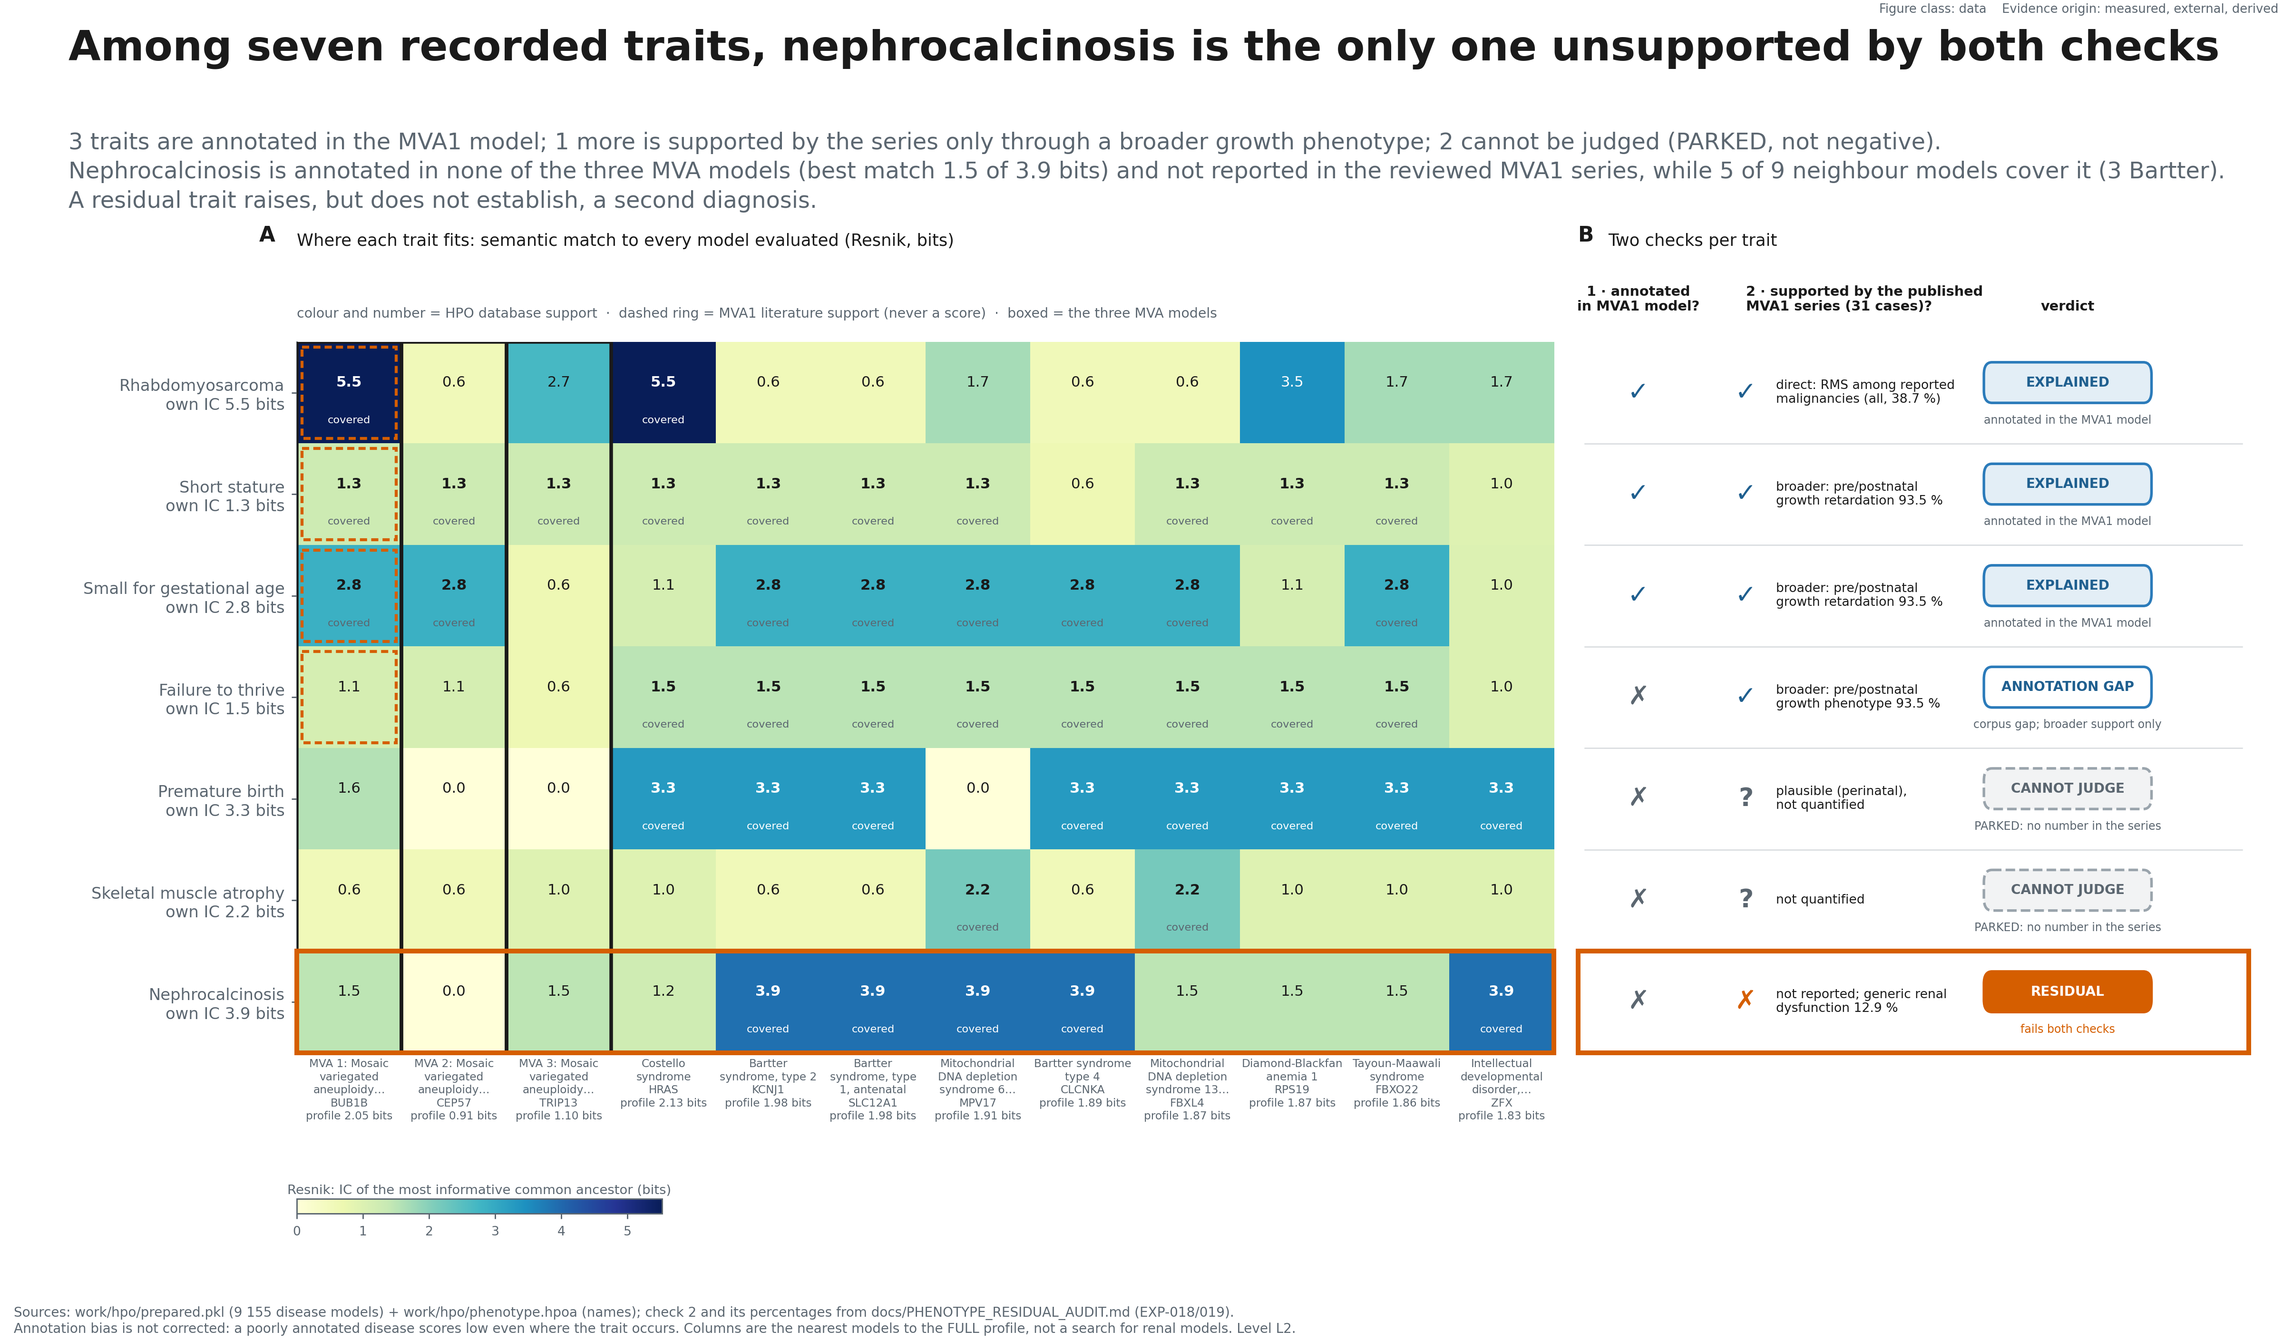
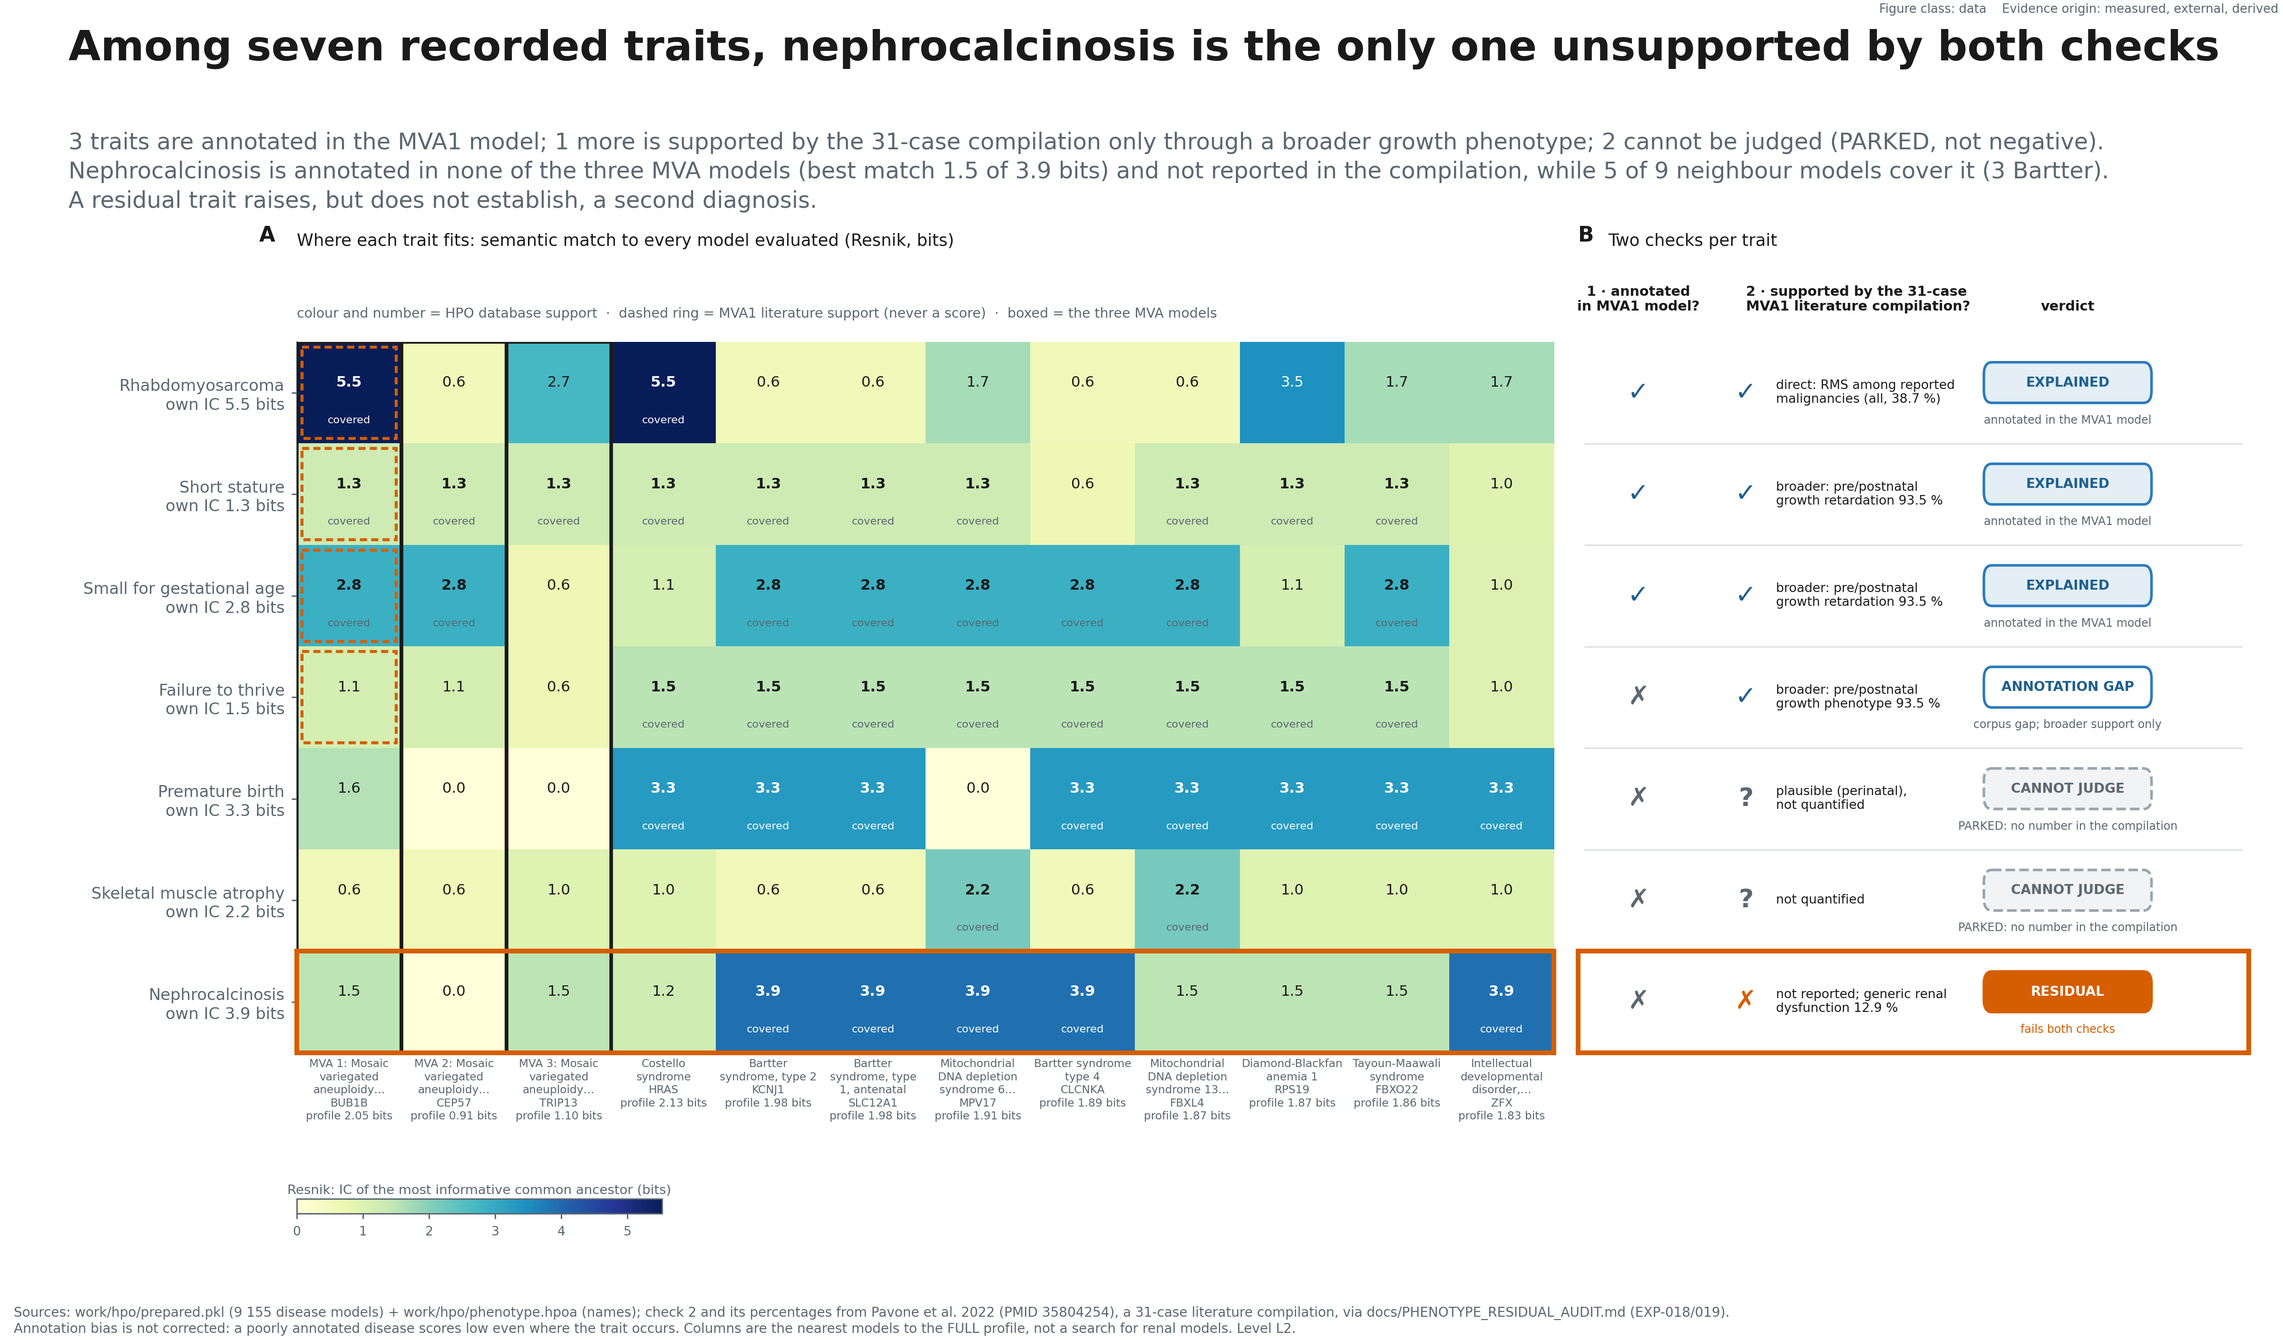
cierre de narrativa: Pavone 2022 (PMID 35804254) como compilacion publicada de 31 casos MVA1, no 'serie' (revision de literatura; caso indice con una sola VUS heterocigota), en fig05, Track 1, README, atlas y audit; audit: 'RESIDUAL CONFIRMADO' -> 'residual en este audit, ambas comprobaciones negati

diff --git a/src/figures/fig05_hpo.py b/src/figures/fig05_hpo.py
@@ -3,7 +3,7 @@
 """Figure 6. Seven traits, two checks: only nephrocalcinosis fails both.
 
 A · matriz término HPO × modelo, en bits (dato medido). B · registro alineado fila a fila: comprobación 1
-(anotado en el modelo MVA1, medido), comprobación 2 (serie publicada, del audit) y el veredicto que
+(anotado en el modelo MVA1, medido), comprobación 2 (compilación publicada de 31 casos, del audit) y el veredicto que
 DERIVA de ambas. Sustituye a las barras de BMA, que ahora van en la etiqueta de cada columna.
 
 What the cells hold
@@ -20,7 +20,7 @@ Why not a simple annotated / not annotated flag
 
 Two kinds of support, kept separate
     Colour = HPO database support, in bits.
-    Ring   = literature support for MVA1 specifically, from the published series.
+    Ring   = literature support for MVA1 specifically, from the 31-case literature compilation.
     Literature is never converted into a Resnik score. Mixing the two is exactly
     how a phenotype gap gets talked away.
 
@@ -79,7 +79,7 @@ def verdicts(m: dict) -> list:
     """Veredicto por rasgo, DERIVADO de las dos comprobaciones; nada colocado a mano.
 
     Comprobación 1 (medida): ¿el término está anotado en el modelo MVA1 del corpus HPO?
-    Comprobación 2 (literatura): ¿la serie publicada de MVA1 lo respalda? (LIT_MVA1_DETAIL,
+    Comprobación 2 (literatura): ¿la compilación publicada de 31 casos MVA1 lo respalda? (LIT_MVA1_DETAIL,
     tal como está en docs/PHENOTYPE_RESIDUAL_AUDIT.md). Las categorías son las del audit.
     """
     PT, COV = m["terms"], m["covered"]
@@ -108,7 +108,7 @@ VSTYLE = {  # relleno, borde, tinta, trama; la identidad va además escrita en l
 VNOTE = {
     "EXPLAINED": "annotated in the MVA1 model",
     "ANNOTATION GAP": "corpus gap; broader support only",
-    "CANNOT JUDGE": "PARKED: no number in the series",
+    "CANNOT JUDGE": "PARKED: no number in the compilation",
     "RESIDUAL": "fails both checks",
 }
 
@@ -185,7 +185,7 @@ def build(m: dict):
     X1, X2, XV = .9, 3.05, 7.3
     al.text(X1, -0.78, "1 · annotated\nin MVA1 model?", ha="center", va="bottom",
             fontsize=S.BASE - 1.1, color=S.INK, fontweight="bold", linespacing=1.15)
-    al.text(X2 - .55, -0.78, "2 · supported by the published\nMVA1 series (31 cases)?",
+    al.text(X2 - .55, -0.78, "2 · supported by the 31-case\nMVA1 literature compilation?",
             ha="left", va="bottom", fontsize=S.BASE - 1.1, color=S.INK, fontweight="bold",
             linespacing=1.15)
     al.text(XV, -0.78, "verdict", ha="center", va="bottom", fontsize=S.BASE - 1.1,
@@ -230,16 +230,16 @@ def build(m: dict):
     fig.text(.03, .955, "Among seven recorded traits, nephrocalcinosis is the only one unsupported by both checks",
              fontsize=21, fontweight="bold", color=S.INK)
     fig.text(.03, .845,
-             f"{cnt['EXPLAINED']} traits are annotated in the MVA1 model; {cnt['ANNOTATION GAP']} more is supported by the series only "
+             f"{cnt['EXPLAINED']} traits are annotated in the MVA1 model; {cnt['ANNOTATION GAP']} more is supported by the 31-case compilation only "
              f"through a broader growth phenotype; {cnt['CANNOT JUDGE']} cannot be judged (PARKED, not negative)." + NL2 +
              f"Nephrocalcinosis is annotated in none of the three MVA models (best match "
-             f"{BM[i_nef, mv[0]]:.1f} of {ic_t[PT[i_nef]]:.1f} bits) and not reported in the reviewed MVA1 series, while "
+             f"{BM[i_nef, mv[0]]:.1f} of {ic_t[PT[i_nef]]:.1f} bits) and not reported in the compilation, while "
              f"{len(nef_other)} of {len(ot)} neighbour models cover it ({n_bartter} Bartter)." + NL2 +
              "A residual trait raises, but does not establish, a second diagnosis.",
              fontsize=11.5, color=S.MUTED, linespacing=1.4)
     S.note(fig,
            "Sources: work/hpo/prepared.pkl (9 155 disease models) + work/hpo/phenotype.hpoa (names); "
-           "check 2 and its percentages from docs/PHENOTYPE_RESIDUAL_AUDIT.md (EXP-018/019).\n"
+           "check 2 and its percentages from Pavone et al. 2022 (PMID 35804254), a 31-case literature compilation, via docs/PHENOTYPE_RESIDUAL_AUDIT.md (EXP-018/019).\n"
            "Annotation bias is not corrected: a poorly annotated disease scores low even where the "
            "trait occurs. Columns are the nearest models to the FULL profile, not a search for renal "
            "models. Level L2.",
@@ -313,13 +313,13 @@ PROBAND = [
     ("HP:0003202", "Skeletal muscle atrophy"),
     ("HP:0000121", "Nephrocalcinosis"),
 ]
-# Literature support in the published MVA1 series, as already recorded in the
+# Literature support in the 31-case MVA1 literature compilation, as already recorded in the
 # project. Kept as a BOOLEAN: it is never turned into bits.
 LIT_MVA1 = {"HP:0002859": True, "HP:0004322": True, "HP:0001518": True,
             "HP:0001508": True, "HP:0001622": False, "HP:0003202": False,
             "HP:0000121": False}
 # Comprobación 2 con su categoría y su cifra, copiadas de docs/PHENOTYPE_RESIDUAL_AUDIT.md
-# (serie publicada de 31 casos de MVA1). "nq" = no cuantificado: PARKED, no NEGATIVE.
+# (compilación publicada de 31 casos etiquetados como MVA1, Pavone et al. 2022). "nq" = no cuantificado: PARKED, no NEGATIVE.
 LIT_MVA1_DETAIL = {
     "HP:0002859": ("yes", "direct: RMS among reported" + NL2 + "malignancies (all, 38.7 %)"),
     "HP:0004322": ("yes", "broader: pre/postnatal" + NL2 + "growth retardation 93.5 %"),

diff --git a/PUBLICATION_FIGURE_QA.md b/PUBLICATION_FIGURE_QA.md
@@ -281,7 +281,7 @@ outputs*) checks that every artefact cites that manifest.
 | **uncertainty quantified?** | **no** for annotation bias, and it cannot be from this corpus |
 | **possible misleading interpretation** | **that a low cell means the trait does not occur in that disease.** It means the corpus does not annotate it. Second risk: that literature support has been folded into the bits. Third: that MVA1 covering 3 of 7 terms is evidence against MVA1, it is not, because three of the four uncovered terms have literature support. |
 | **correction applied** | literature support is a dashed **ring**, never a number, and the legend says "not a Resnik score"; the provenance strip states the annotation bias explicitly and says the columns are neighbours of the full profile, not a search for renal models; the computed caption names which terms are covered and which are not, rather than asserting a count. **2026-10-07 redesign (idea-level):** the profile-BMA bar panel was replaced by a row-aligned two-check verdict ledger (BMA kept in the column labels); the thesis is the title; the renderer refuses to draw unless the derived RESIDUAL set is exactly nephrocalcinosis and no MVA model covers it. Verdict identity is written in each pill, not carried by colour alone; CANNOT JUDGE is dashed and labelled PARKED, not negative |
-| **full-size render checked?** | yes (redesign: two renders; subtitle overflow, panel-heading collisions and truncated Bartter subtypes fixed). 2026-10-07 leader review: title is "Among seven recorded traits, nephrocalcinosis is the only one unsupported by both checks" (not a statement about MVA1 phenotypes in general); check 2 separates **direct** support (rhabdomyosarcoma among the reported malignancies) from **broader** support (pre/postnatal growth retardation 93.5 % covering short stature, SGA and failure to thrive): the series does not report those terms literally. Second pass: "absent from the series" → "not reported in the reviewed MVA1 series" and "no: only generic renal dysfunction" → "not reported; generic renal dysfunction 12.9 %" (not reported ≠ systematically assessed and absent) |
+| **full-size render checked?** | yes (redesign: two renders; subtitle overflow, panel-heading collisions and truncated Bartter subtypes fixed). 2026-10-07 leader review: title is "Among seven recorded traits, nephrocalcinosis is the only one unsupported by both checks" (not a statement about MVA1 phenotypes in general); check 2 separates **direct** support (rhabdomyosarcoma among the reported malignancies) from **broader** support (pre/postnatal growth retardation 93.5 % covering short stature, SGA and failure to thrive): the series does not report those terms literally. Second pass: "absent from the series" → "not reported in the reviewed MVA1 series" and "no: only generic renal dysfunction" → "not reported; generic renal dysfunction 12.9 %" (not reported ≠ systematically assessed and absent). Third pass: the source is named a **31-case MVA1 literature compilation** (Pavone et al. 2022, PMID 35804254), not a "series": it is a literature review whose own index case carries a single heterozygous BUB1B VUS |
 
 ---
 

diff --git a/reports/TRACK1_REPORT.md b/reports/TRACK1_REPORT.md
@@ -26,11 +26,13 @@ Likely Pathogenic, plus one rare missense VUS, both on the MANE transcript, a co
 reported in biallelic `BUB1B`-associated MVA ([Hanks et al. 2004](https://doi.org/10.1038/ng1449)).
 
 **The recorded phenotype mostly fits or stays open.** Of seven recorded traits, three are
-annotated in the MVA1 disease model, one more is supported by the published MVA1 series only
-through a broader growth phenotype, two cannot be judged because the series does not quantify
-them, and **nephrocalcinosis is the one trait supported by neither check**: it is not annotated
-in any MVA model and was not reported in the reviewed MVA1 series, which records only generic
-renal dysfunction (12.9 %). A residual trait keeps a mixed diagnosis open; it does not establish
+annotated in the MVA1 disease model, one more is supported by a published 31-case MVA1
+literature compilation (Pavone et al. 2022, PMID 35804254) only through a broader growth
+phenotype, two cannot be judged because the compilation does not quantify them, and
+**nephrocalcinosis is the one trait supported by neither check**: it is not annotated in any MVA
+model and was not reported in that compilation, which records only generic renal dysfunction
+(12.9 %). The compilation is a literature review, not a homogeneous cohort: its own index case
+carries a single heterozygous `BUB1B` VUS. A residual trait keeps a mixed diagnosis open; it does not establish
 one ([audit](../docs/PHENOTYPE_RESIDUAL_AUDIT.md); [Figure: fig05](../figures/pub/fig05_hpo_disease_matrix.svg)).
 
 **Phase remains unresolved; therefore this is a strong causal hypothesis, not a diagnosis.** No

diff --git a/docs/PHENOTYPE_RESIDUAL_AUDIT.md b/docs/PHENOTYPE_RESIDUAL_AUDIT.md
@@ -1,6 +1,6 @@
 # EXP-018 / EXP-019 · ¿Fenotipo residual, o hueco de anotación?
 
-> **`DERIVED`** sobre corpus HPO local + **`EXTERNAL`** (serie de 31 casos de MVA1,
+> **`DERIVED`** sobre corpus HPO local + **`EXTERNAL`** (compilación publicada de 31 casos etiquetados como MVA1,
 > `Neurol Sci` 2022, DOI 10.1007/s10072-022-06247-w, ya verificada en el brief §11).
 >
 > **Nota de auditoría sobre el denominador (verificada en PubMed, texto completo, 2026-10-07; Pavone et al.
@@ -84,7 +84,7 @@ pertenencia al conjunto anotado.** Es la medida que responde la pregunta.
 |---|---|---|
 | **EXP-018 · atrofia muscular** | **PARKED** | Ni hueco de anotación demostrable ni residual demostrable: falta el dato en la literatura |
 | **EXP-019 · crecimiento y perinatales** | **CERRADO · NEGATIVE como residual** | El bajo soporte de fallo de medro es **hueco de anotación**; la literatura lo cubre al 93,5 % |
-| **Nefrocalcinosis** | **RESIDUAL CONFIRMADO** | Único rasgo sin anotación **y** sin respaldo en la literatura de MVA1 |
+| **Nefrocalcinosis** | **RESIDUAL EN ESTE AUDIT · AMBAS COMPROBACIONES NEGATIVAS** | Único rasgo sin anotación **y** sin respaldo en la compilación de MVA1. No demuestra que la nefrocalcinosis sea incompatible con MVA1: la compilación reporta disfunción renal genérica (12,9 %) |
 
 **Consecuencia para el proyecto:** el argumento de diagnóstico mixto **se estrecha a un solo
 rasgo**, en vez de apoyarse en cuatro. Es más débil en número y **mucho más fuerte en calidad**,

diff --git a/docs/DECISIONS.md b/docs/DECISIONS.md
@@ -2964,3 +2964,17 @@ abrir cada sección.
   «evaluado y ausente»).
 
 Sin cambios de números ni de niveles de evidencia.
+
+### Cierre de la narrativa científica · «serie» → «compilación» (2026-10-07)
+
+Última corrección epistemológica del líder, sin cambio de números. Pavone et al. 2022 (PMID 35804254, PMC9616775,
+verificado en texto completo) es una **compilación publicada de 31 casos etiquetados como MVA1** (revisión de
+literatura: 30 casos publicados más el caso índice, que porta una sola VUS heterocigota de `BUB1B` compartida con su
+padre no afectado), no una cohorte homogénea bialélica confirmada. Se deja de llamarla «published MVA1 series» en
+fig05, Track 1, README, el atlas y el audit. En el audit, «RESIDUAL CONFIRMADO» pasa a **«RESIDUAL EN ESTE AUDIT ·
+AMBAS COMPROBACIONES NEGATIVAS»**: nuestras dos comprobaciones no respaldan la nefrocalcinosis, pero no hemos
+demostrado que sea incompatible con MVA1 (la compilación reporta disfunción renal genérica al 12,9 %).
+
+Estado del líder: Track 1 APROBADO · Track 2 APROBADO · EXP-027 sellado y cerrado · `research_story.html`
+alineado. **La narrativa científica queda congelada**: solo se reabre ante una contradicción nueva. El trabajo
+siguiente es presentación, claridad visual y preparación de preguntas del jurado.

diff --git a/docs/SCIENTIFIC_ATLAS.md b/docs/SCIENTIFIC_ATLAS.md
@@ -76,11 +76,11 @@ rejection proportions. The view contains every `scope=frac` factorial arm, not t
 `scope=all` clonal controls. [Renderer with input hash](../src/figures/fig12_ablation.py).
 This new figure visualises the existing run; it is not a new validation.
 
-![Seven proband traits, two checks: only nephrocalcinosis is neither annotated in the MVA1 model nor reported in the MVA1 series](../figures/pub/fig05_hpo_disease_matrix.svg)
+![Seven proband traits, two checks: only nephrocalcinosis is neither annotated in the MVA1 model nor reported in a 31-case MVA1 literature compilation](../figures/pub/fig05_hpo_disease_matrix.svg)
 
 **DATA / MEASURED + EXTERNAL + DERIVED.** Semantic similarity shows which traits are least
 well explained; the row-aligned verdicts derive from two checks (HPO annotation in the MVA1
-model, and the published MVA1 series). A residual trait does not by itself assign a second
+model, and a published 31-case MVA1 literature compilation). A residual trait does not by itself assign a second
 diagnosis.
 [Code](../src/figures/fig05_hpo.py).
 

diff --git a/README.md b/README.md
@@ -161,9 +161,10 @@ convergence on the same data, not a second patient's validation. Exomiser's own 
 `HLA-DRB1`, stays an unresolved audit flag. [Convergence figure](figures/pub/fig14_track1_convergence.svg).
 
 **The recorded phenotype mostly fits or stays open.** Of seven recorded traits, three are
-annotated in the MVA1 disease model, one more is supported by the published MVA1 series only
-through a broader growth phenotype, and two cannot be judged. Nephrocalcinosis is the one trait
-supported by neither check: it was not reported in the reviewed MVA1 series. That keeps a mixed
+annotated in the MVA1 disease model, one more is supported by a published 31-case MVA1
+literature compilation only through a broader growth phenotype, and two cannot be judged.
+Nephrocalcinosis is the one trait supported by neither check: it was not reported in that
+compilation. That keeps a mixed
 diagnosis open without establishing one. [Phenotype figure](figures/pub/fig05_hpo_disease_matrix.svg) ·
 [audit](docs/PHENOTYPE_RESIDUAL_AUDIT.md).
 
